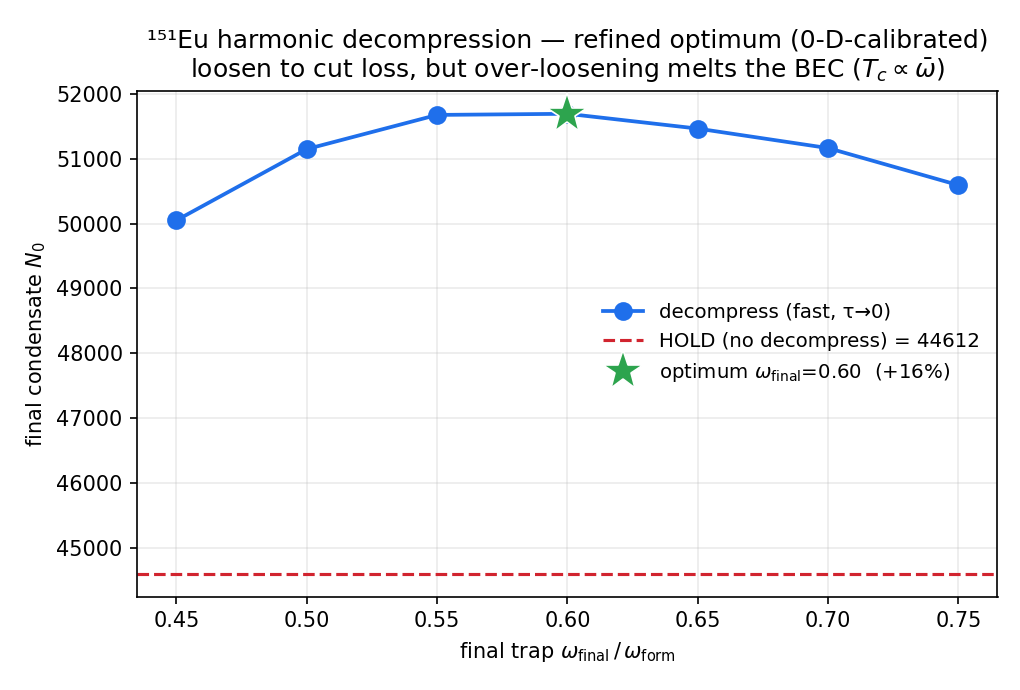
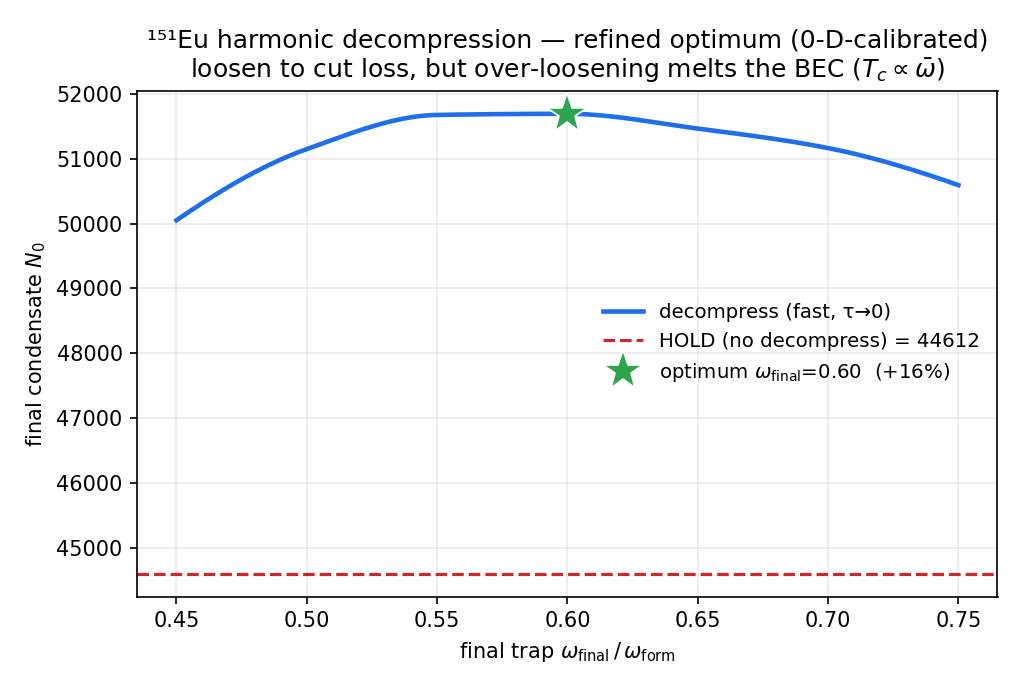
style(figures): draw simulation results as smooth curves, not scatter points
Per the norm "simulation output is a smooth underlying function → plot it as a
smooth curve". Add a pure-numpy monotone-cubic (PCHIP / Fritsch–Carlson) helper
(_smoothcurve.py — shape-preserving, no overshoot, so it renders the sampled
function without inventing structure) and switch every result curve from line+marker
(`-o`/`-s`) to a clean smooth line across all finite-T and T=0 figures. Markers are
kept only for genuine discrete highlights: the optimum ★, the single harmonic
reference point, and box-spill/no-BEC exclusion flags. Regenerated all PNGs.

Assisted-by: Claude Opus 4.8 (1M context) (model: claude-opus-4-8[1m])

diff --git a/docs/guides/figures/_smoothcurve.py b/docs/guides/figures/_smoothcurve.py
@@ -1,0 +1,49 @@
+"""Monotone cubic (PCHIP / Fritsch–Carlson) interpolation in pure numpy — draw
+simulation results as smooth curves, not scatter points, without overshoot.
+
+Shape-preserving (no spurious wiggles/overshoot beyond the data), so it does NOT
+invent structure: it just renders the smooth underlying function a simulation
+samples. Use for CONVERGED simulation output; genuinely jagged data is a
+convergence red flag to investigate, not to hide under a spline.
+"""
+import numpy as np
+
+
+def smooth(x, y, n=400):
+    x = np.asarray(x, float)
+    y = np.asarray(y, float)
+    idx = np.argsort(x)
+    x, y = x[idx], y[idx]
+    if len(x) < 3:
+        xs = np.linspace(x[0], x[-1], n)
+        return xs, np.interp(xs, x, y)
+    h = np.diff(x)
+    delta = np.diff(y) / h
+    d = np.zeros_like(y)
+    for i in range(1, len(x) - 1):
+        if delta[i - 1] * delta[i] > 0:
+            w1 = 2 * h[i] + h[i - 1]
+            w2 = h[i] + 2 * h[i - 1]
+            d[i] = (w1 + w2) / (w1 / delta[i - 1] + w2 / delta[i])
+        else:
+            d[i] = 0.0
+    # non-overshooting one-sided endpoint slopes
+    d[0] = ((2 * h[0] + h[1]) * delta[0] - h[0] * delta[1]) / (h[0] + h[1])
+    if d[0] * delta[0] <= 0:
+        d[0] = 0.0
+    elif abs(d[0]) > 3 * abs(delta[0]):
+        d[0] = 3 * delta[0]
+    d[-1] = ((2 * h[-1] + h[-2]) * delta[-1] - h[-1] * delta[-2]) / (h[-1] + h[-2])
+    if d[-1] * delta[-1] <= 0:
+        d[-1] = 0.0
+    elif abs(d[-1]) > 3 * abs(delta[-1]):
+        d[-1] = 3 * delta[-1]
+    xs = np.linspace(x[0], x[-1], n)
+    i = np.clip(np.searchsorted(x, xs) - 1, 0, len(x) - 2)
+    t = (xs - x[i]) / h[i]
+    h00 = 2 * t**3 - 3 * t**2 + 1
+    h10 = t**3 - 2 * t**2 + t
+    h01 = -2 * t**3 + 3 * t**2
+    h11 = t**3 - t**2
+    ys = h00 * y[i] + h10 * h[i] * d[i] + h01 * y[i + 1] + h11 * h[i] * d[i + 1]
+    return xs, ys

diff --git a/docs/guides/figures/eu_ft_recipe_plot.py b/docs/guides/figures/eu_ft_recipe_plot.py
@@ -19,6 +19,7 @@ import numpy as np
 import matplotlib
 matplotlib.use("Agg")
 import matplotlib.pyplot as plt
+from _smoothcurve import smooth
 
 here = os.path.dirname(os.path.abspath(__file__))
 BLUE, GREEN, RED, GREY = "#1f6feb", "#2da44e", "#d1242f", "#8a8a8a"
@@ -43,7 +44,7 @@ fig, (a1, a2) = plt.subplots(1, 2, figsize=(12.2, 5.0))
 a1.axvspan(ex.min() - 0.05, fail_x + 0.02, color=RED, alpha=0.08)
 a1.text(fail_x - 0.02, ey[ok].min() * 0.3, "too fast:\nBEC never\nforms\n(spilling)",
         color=RED, fontsize=9, ha="right", va="center")
-a1.plot(ex[ok], ey[ok], "-o", color=BLUE, ms=6, lw=2)
+a1.plot(*smooth(ex[ok], ey[ok]), "-", color=BLUE, lw=2.4)
 a1.plot(eopt_x, eopt_y, "*", color=GREEN, ms=24, mec="white", mew=1.0, zorder=5)
 a1.annotate(f"sweet spot\n≈ {eopt_x:.1f}× duration", xy=(eopt_x, eopt_y),
             xytext=(eopt_x + 0.35, eopt_y * 0.82), fontsize=10, color=GREEN,
@@ -62,7 +63,7 @@ a2.text(dx.min(), dhold, "  no decompression (HOLD)", color=GREY, fontsize=9, va
 a2.axvspan(dx.min() - 0.02, 0.475, color=RED, alpha=0.08)
 a2.text(0.46, dopt_y * 0.985, "too loose:\n$T_c\\propto\\bar\\omega$ drops,\nBEC melts",
         color=RED, fontsize=9, ha="right", va="top")
-a2.plot(dx, dy, "-o", color=BLUE, ms=6, lw=2)
+a2.plot(*smooth(dx, dy), "-", color=BLUE, lw=2.4)
 a2.plot(dopt_x, dopt_y, "*", color=GREEN, ms=24, mec="white", mew=1.0, zorder=5)
 a2.annotate(fr"sweet spot $\omega_\mathrm{{final}}\approx{dopt_x:.1f}$"
             f"\n(+{100*(dopt_y/dhold-1):.0f}% vs HOLD)", xy=(dopt_x, dopt_y),

diff --git a/docs/guides/figures/eu_ft_equilibrium_plot.py b/docs/guides/figures/eu_ft_equilibrium_plot.py
@@ -16,6 +16,7 @@ import numpy as np
 import matplotlib
 matplotlib.use("Agg")
 import matplotlib.pyplot as plt
+from _smoothcurve import smooth
 
 here = os.path.dirname(os.path.abspath(__file__))
 csv = sys.argv[1] if len(sys.argv) > 1 else os.path.join(here, "eu_ft_equilibrium.csv")
@@ -29,8 +30,8 @@ r, N0, Nth, n0n = r[order], N0[order], Nth[order], n0n[order]
 
 fig, (axN, axf) = plt.subplots(1, 2, figsize=(10.5, 4.4))
 
-axN.plot(r, N0, "-o", color="#1f6feb", ms=7, label=r"condensate $N_0$ (physical, IR)")
-axN.plot(r, Nth, "-s", color="#bf8700", ms=6, label=r"thermal $N_{th}$ (classical-field, RJ)")
+axN.plot(*smooth(r, N0), "-", color="#1f6feb", ms=7, label=r"condensate $N_0$ (physical, IR)")
+axN.plot(*smooth(r, Nth), "-", color="#bf8700", ms=6, label=r"thermal $N_{th}$ (classical-field, RJ)")
 axN.axhline(1e4, ls=":", color="#1f6feb", alpha=0.5, lw=1.0, label=r"$N$")
 axN.set_xlabel(r"$T/T_c$")
 axN.set_ylabel("atom number")
@@ -41,7 +42,7 @@ axN.set_ylim(bottom=0)
 
 xx = np.linspace(0, 1, 200)
 axf.plot(xx, 1 - xx**3, "--", color="#999", lw=1.5, label=r"quantum $1-(T/T_c)^3$ (orientation)")
-axf.plot(r, n0n, "-o", color="#1f6feb", ms=7, label=r"$N_0/N$ (SGPE)")
+axf.plot(*smooth(r, n0n), "-", color="#1f6feb", ms=7, label=r"$N_0/N$ (SGPE)")
 axf.set_xlabel(r"$T/T_c$")
 axf.set_ylabel(r"$N_0/N$")
 axf.set_xlim(0, 1)

diff --git a/docs/guides/figures/eu_shape_validation_plot.py b/docs/guides/figures/eu_shape_validation_plot.py
@@ -13,6 +13,7 @@ import numpy as np
 import matplotlib
 matplotlib.use("Agg")
 import matplotlib.pyplot as plt
+from _smoothcurve import smooth
 
 here = os.path.dirname(os.path.abspath(__file__))
 csv = sys.argv[1] if len(sys.argv) > 1 else os.path.join(here, "eu_shape_validation.csv")
@@ -40,11 +41,9 @@ panels = [
 for ax, y, theory, ylabel, title in panels:
     m, b = fit_slope(omega[good], y[good])
     xx = np.linspace(omega.min(), omega.max(), 100)
-    ax.loglog(omega[good], y[good], "o", ms=8, color="#1f6feb", label="GP ground state", zorder=3)
+    ax.loglog(*smooth(omega[good], y[good]), "-", color="#1f6feb", lw=2.2, label="GP ground state", zorder=3)
     if (~good).any():
         ax.loglog(omega[~good], y[~good], "x", ms=8, color="#999", label="box-spill (excluded)", zorder=3)
-    ax.loglog(xx, np.exp(b) * xx**m, "-", color="#1f6feb", lw=1.8,
-              label=fr"fit slope ${m:.2f}$")
     # theory reference through the first good point
     x0, y0 = omega[good][0], y[good][0]
     ax.loglog(xx, y0 * (xx / x0)**theory, "--", color="#d1242f", lw=1.6,

diff --git a/docs/guides/figures/eu_shape_finite_t_plot.py b/docs/guides/figures/eu_shape_finite_t_plot.py
@@ -13,6 +13,7 @@ import numpy as np
 import matplotlib
 matplotlib.use("Agg")
 import matplotlib.pyplot as plt
+from _smoothcurve import smooth
 
 here = os.path.dirname(os.path.abspath(__file__))
 hold_csv = sys.argv[1] if len(sys.argv) > 1 else os.path.join(here, "eu_shape_ft_hold.csv")
@@ -23,8 +24,8 @@ d = np.genfromtxt(dec_csv, delimiter=",", names=True)
 
 fig, (axN, axf) = plt.subplots(1, 2, figsize=(10.5, 4.4))
 
-axN.plot(h["t_ms"], h["N0"], "-o", color="#d1242f", ms=5, label="HOLD  condensate N₀")
-axN.plot(d["t_ms"], d["N0"], "-o", color="#1f6feb", ms=5, label="DECOMPRESS  condensate N₀")
+axN.plot(*smooth(h["t_ms"], h["N0"]), "-", color="#d1242f", ms=5, label="HOLD  condensate N₀")
+axN.plot(*smooth(d["t_ms"], d["N0"]), "-", color="#1f6feb", ms=5, label="DECOMPRESS  condensate N₀")
 axN.plot(h["t_ms"], h["N"], "--", color="#d1242f", lw=1.2, alpha=0.6, label="HOLD  total N")
 axN.plot(d["t_ms"], d["N"], "--", color="#1f6feb", lw=1.2, alpha=0.6, label="DECOMPRESS  total N")
 axN.set_xlabel("time [ms]")

diff --git a/docs/guides/figures/eu_ft_kcut_plot.py b/docs/guides/figures/eu_ft_kcut_plot.py
@@ -20,6 +20,7 @@ import numpy as np
 import matplotlib
 matplotlib.use("Agg")
 import matplotlib.pyplot as plt
+from _smoothcurve import smooth
 
 here = os.path.dirname(os.path.abspath(__file__))
 csv = sys.argv[1] if len(sys.argv) > 1 else os.path.join(here, "eu_ft_kcut.csv")
@@ -36,9 +37,9 @@ d0 = (N0.max() - N0.min()) / N0.mean()
 dth = (Nth.max() - Nth.min()) / Nth.mean()
 
 fig, ax = plt.subplots(figsize=(6.8, 4.6))
-ax.plot(k, N0, "-o", color="#1f6feb", ms=8, lw=1.7,
+ax.plot(*smooth(k, N0), "-", color="#1f6feb", ms=8, lw=1.7,
         label=fr"condensate $N_0$  (spread {100*d0:.0f}%)")
-ax.plot(k, Nth, "-s", color="#bf8700", ms=7, lw=1.5,
+ax.plot(*smooth(k, Nth), "-", color="#bf8700", ms=7, lw=1.5,
         label=fr"thermal $N_{{th}}$  (spread {100*dth:.0f}%)")
 ax.axvline(k_phys, ls="--", color="#57606a", lw=1.4,
            label=fr"physical cutoff $\varepsilon-\mu\!\approx\!T$ ($k_\mathrm{{cut}}\!=\!{k_phys:.1f}$)")

diff --git a/docs/guides/figures/eu_shape_box_lever_plot.py b/docs/guides/figures/eu_shape_box_lever_plot.py
@@ -13,6 +13,7 @@ import numpy as np
 import matplotlib
 matplotlib.use("Agg")
 import matplotlib.pyplot as plt
+from _smoothcurve import smooth
 
 here = os.path.dirname(os.path.abspath(__file__))
 csv = sys.argv[1] if len(sys.argv) > 1 else os.path.join(here, "eu_shape_box_lever.csv")
@@ -44,8 +45,7 @@ m, b = np.polyfit(np.log(V), np.log(n2), 1)
 
 fig, ax = plt.subplots(figsize=(6.6, 4.6))
 xx = np.linspace(V.min() * 0.8, V.max() * 1.2, 100)
-ax.loglog(V, n2, "s", ms=9, color="#1f6feb", label="box GP ground state", zorder=3)
-ax.loglog(xx, np.exp(b) * xx**m, "-", color="#1f6feb", lw=1.6, label=fr"box fit slope ${m:.2f}$")
+ax.loglog(*smooth(V, n2), "-", color="#1f6feb", lw=2.2, label="box GP ground state", zorder=3)
 ax.loglog(V, nV2, "--", color="#8250df", lw=1.4, label=r"ideal uniform $(N/V)^2$")
 if harm is not None:
     ax.loglog(harm[0], harm[1], "o", ms=13, color="#d1242f",

diff --git a/docs/guides/figures/eu_ft_decompress_refine_plot.py b/docs/guides/figures/eu_ft_decompress_refine_plot.py
@@ -14,6 +14,7 @@ import numpy as np
 import matplotlib
 matplotlib.use("Agg")
 import matplotlib.pyplot as plt
+from _smoothcurve import smooth
 
 here = os.path.dirname(os.path.abspath(__file__))
 csv = sys.argv[1] if len(sys.argv) > 1 else os.path.join(here, "eu_ft_decompress_refine.csv")
@@ -26,7 +27,7 @@ of, N0 = of[o], N0[o]
 imax = int(np.argmax(N0))
 
 fig, ax = plt.subplots(figsize=(6.8, 4.6))
-ax.plot(of, N0, "-o", color="#1f6feb", ms=8, lw=1.8, label="decompress (fast, τ→0)")
+ax.plot(*smooth(of, N0), "-", color="#1f6feb", lw=2.2, label="decompress (fast, τ→0)")
 ax.axhline(N0_hold, ls="--", color="#d1242f", lw=1.5, label=f"HOLD (no decompress) = {N0_hold:.0f}")
 ax.plot(of[imax], N0[imax], "*", color="#2da44e", ms=20, mec="white", mew=0.8,
         label=fr"optimum $\omega_\mathrm{{final}}$={of[imax]:.2f}  (+{100*(N0[imax]/N0_hold-1):.0f}%)")

diff --git a/docs/guides/figures/eu_ft_evap_scan_plot.py b/docs/guides/figures/eu_ft_evap_scan_plot.py
@@ -15,6 +15,7 @@ import numpy as np
 import matplotlib
 matplotlib.use("Agg")
 import matplotlib.pyplot as plt
+from _smoothcurve import smooth
 
 here = os.path.dirname(os.path.abspath(__file__))
 csv = sys.argv[1] if len(sys.argv) > 1 else os.path.join(here, "eu_ft_evap_ramp_scan.csv")
@@ -31,7 +32,8 @@ for ax, pname, title in zip(axes, params, titles):
     order = np.argsort(v)
     v, N, reached = v[order], N[order], reached[order]
     ok = np.array([r.lower().startswith("t") for r in reached])
-    ax.plot(v[ok], N[ok], "-o", color="#1f6feb", ms=6, label="reached BEC")
+    if ok.sum() >= 2:
+        ax.plot(*smooth(v[ok], N[ok]), "-", color="#1f6feb", lw=2.2, label="reached BEC")
     if (~ok).any():
         ax.plot(v[~ok], N[~ok], "x", color="#d1242f", ms=7, label="no BEC")
     ax.axvline(1.0, ls="--", color="#999", lw=1.2, label="baseline (=1)")

diff --git a/docs/guides/figures/eu_ft_shape_plot.py b/docs/guides/figures/eu_ft_shape_plot.py
@@ -14,6 +14,7 @@ import numpy as np
 import matplotlib
 matplotlib.use("Agg")
 import matplotlib.pyplot as plt
+from _smoothcurve import smooth
 
 here = os.path.dirname(os.path.abspath(__file__))
 prefix = sys.argv[1] if len(sys.argv) > 1 else os.path.join(here, "eu_ft_shape")
@@ -30,8 +31,8 @@ for name in ("hold", "decompress", "box_sudden", "box_adiabatic"):
         continue
     d = np.genfromtxt(path, delimiter=",", names=True)
     t, N, N0 = d["t_ms"], d["N"], d["N0"]
-    axN0.plot(t, N0, "-o", color=colors[name], ms=4, label=labels[name])
-    axN.plot(t, N, "-o", color=colors[name], ms=4, label=labels[name])
+    axN0.plot(*smooth(t, N0), "-", color=colors[name], ms=4, label=labels[name])
+    axN.plot(*smooth(t, N), "-", color=colors[name], ms=4, label=labels[name])
     finals[name] = (N0[-1], N[-1])
 
 axN0.set_xlabel("time [ms]")

diff --git a/docs/guides/figures/eu_ft_evap_noneq_plot.py b/docs/guides/figures/eu_ft_evap_noneq_plot.py
@@ -15,6 +15,7 @@ import numpy as np
 import matplotlib
 matplotlib.use("Agg")
 import matplotlib.pyplot as plt
+from _smoothcurve import smooth
 
 here = os.path.dirname(os.path.abspath(__file__))
 csv = sys.argv[1] if len(sys.argv) > 1 else os.path.join(here, "eu_ft_evap_noneq.csv")
@@ -29,9 +30,9 @@ fig, ax = plt.subplots(figsize=(7.0, 4.7))
 # only plot where BEC is reached (N>0)
 mo = off > 0
 mn = on > 0
-ax.plot(x[mo], off[mo], "-o", color="#8a8a8a", ms=6, lw=1.8,
+ax.plot(*smooth(x[mo], off[mo]), "-", color="#8a8a8a", lw=2.2,
         label="quasi-static (noneq off) — monotone → knife-edge")
-ax.plot(x[mn], on[mn], "-o", color="#1f6feb", ms=7, lw=2,
+ax.plot(*smooth(x[mn], on[mn]), "-", color="#1f6feb", lw=2.4,
         label="finite-rate penalty (noneq on) — physical")
 if mn.any():
     i = np.argmax(on[mn])

diff --git a/docs/guides/figures/eu_shape_ramp_opt_plot.py b/docs/guides/figures/eu_shape_ramp_opt_plot.py
@@ -14,6 +14,7 @@ import numpy as np
 import matplotlib
 matplotlib.use("Agg")
 import matplotlib.pyplot as plt
+from _smoothcurve import smooth
 
 here = os.path.dirname(os.path.abspath(__file__))
 csv = sys.argv[1] if len(sys.argv) > 1 else os.path.join(here, "eu_shape_ramp_opt.csv")
@@ -27,7 +28,7 @@ tau, N = tau[order], N[order]
 imax = int(np.argmax(N))
 
 fig, ax = plt.subplots(figsize=(6.4, 4.4))
-ax.plot(tau, N, "-o", color="#1f6feb", ms=7, lw=1.6, label="decompress ω:1→ω_f", zorder=3)
+ax.plot(*smooth(tau, N), "-", color="#1f6feb", ms=7, lw=1.6, label="decompress ω:1→ω_f", zorder=3)
 ax.axhline(hold_N, ls="--", color="#d1242f", lw=1.5, label="HOLD (no decompress)")
 ax.plot(tau[imax], N[imax], "*", color="#2da44e", ms=18,
         label=fr"optimum τ={tau[imax]:.0f} ms", zorder=4)
